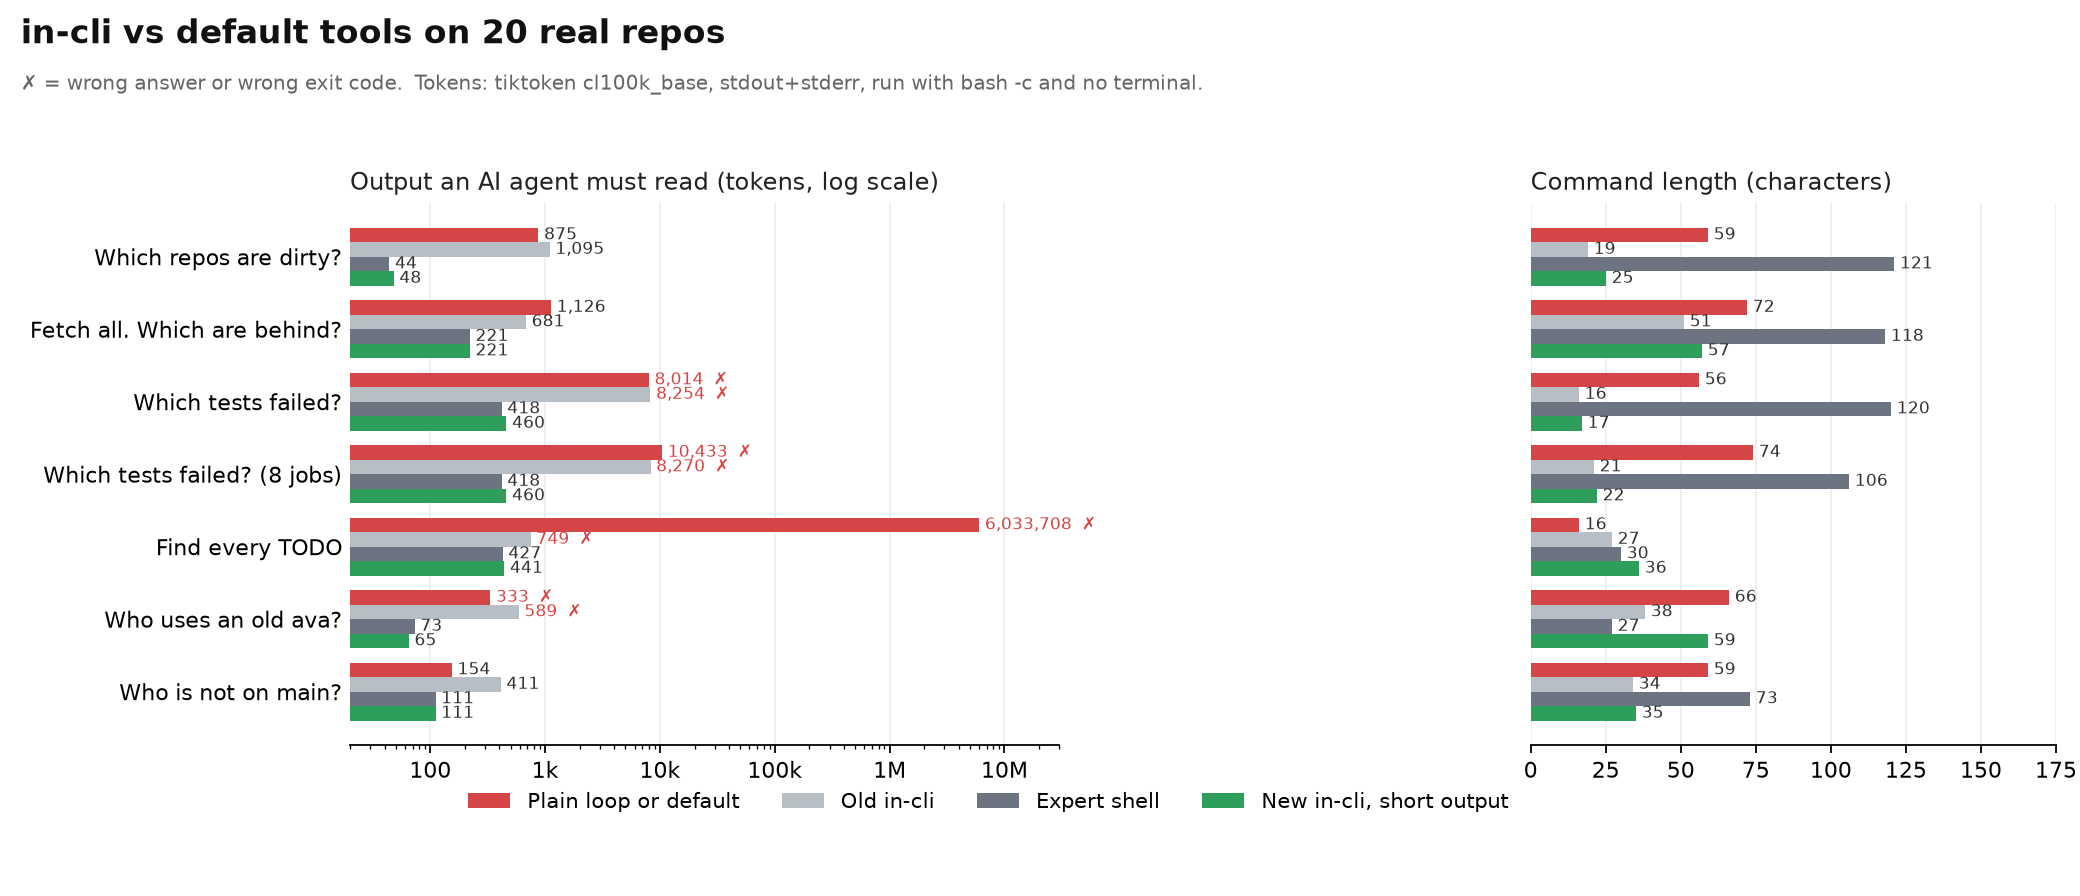
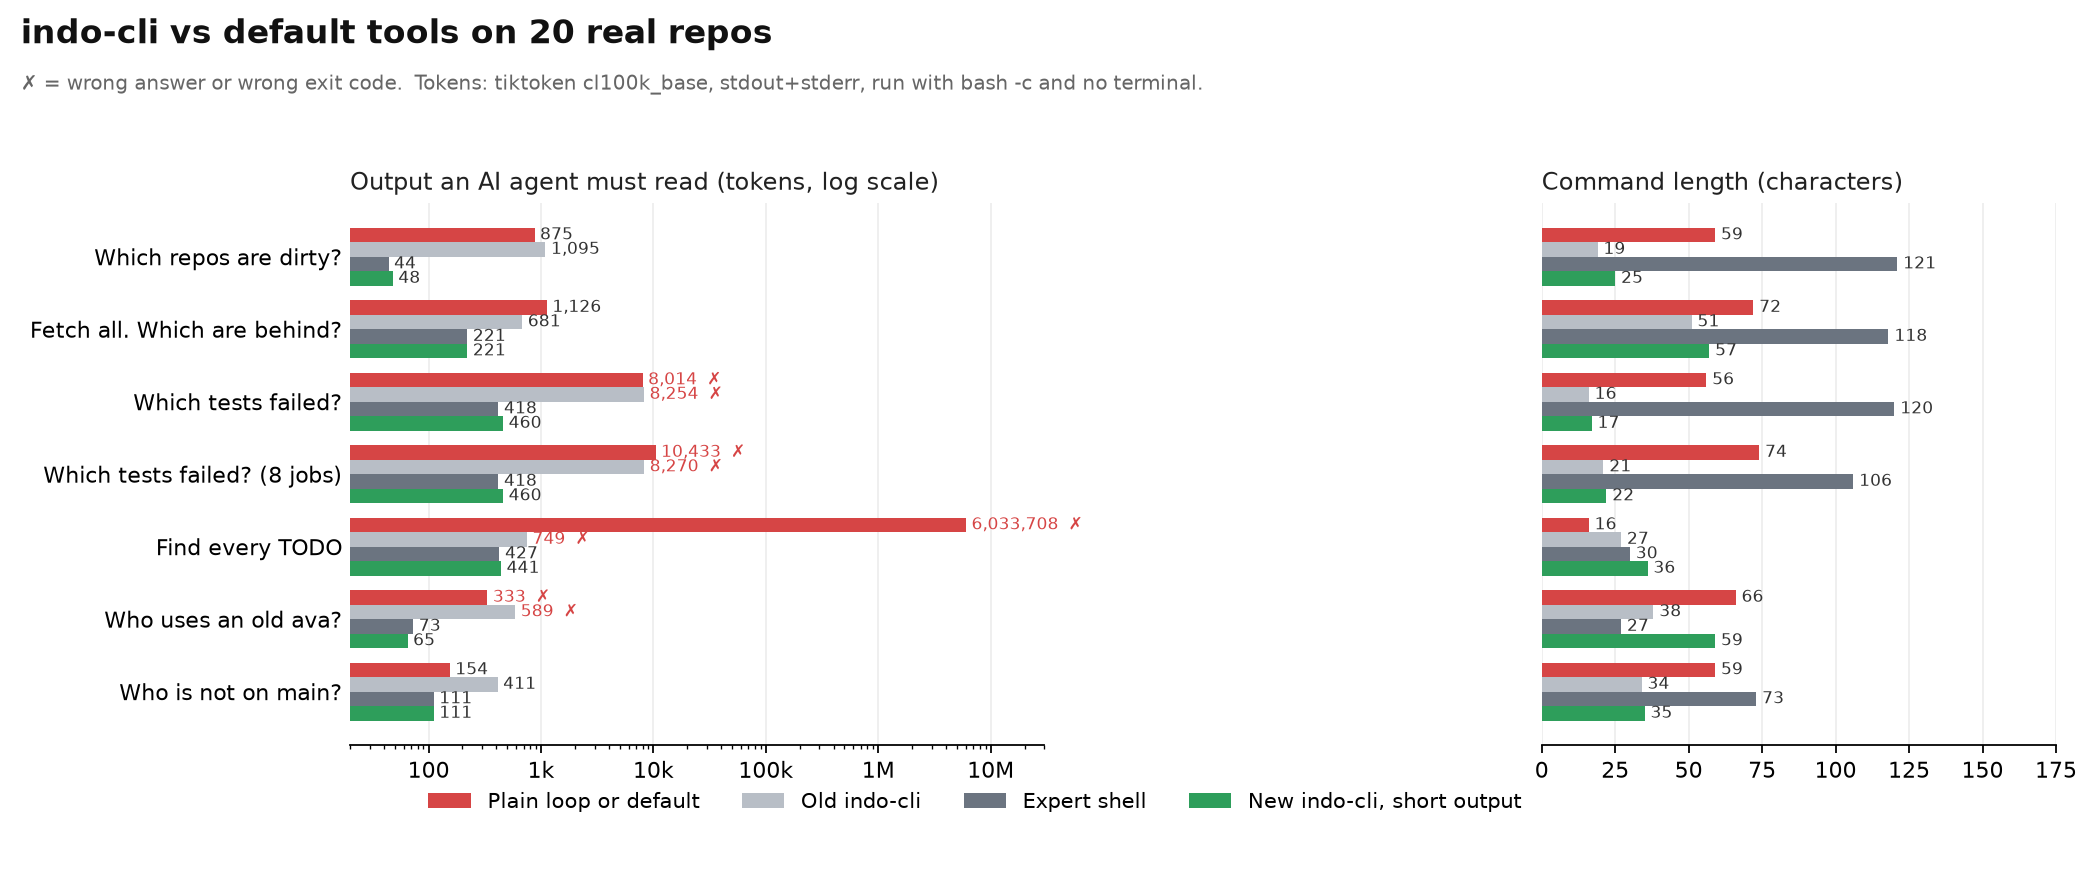
Rename project to indo-cli, version 1.2.0
- New repo URLs (github.com/inevolin/indo-cli) in README, install.sh and in.sh
- indo is the main name in help, version and verbose output; the in link still works
- Installer also replaces an old in-cli 'in' install with the link
- Re-recorded demo GIF with indo, rebuilt benchmark chart with the new name
- Changelog and rename note in README

diff --git a/bench/bench.py b/bench/bench.py
@@ -1,5 +1,5 @@
 #!/usr/bin/env python3
-"""Benchmark in-cli against default tools on a 20-repo workspace.
+"""Benchmark indo-cli against default tools on a 20-repo workspace.
 
 Every command runs through `bash -c` with no terminal, the way AI agents run
 commands. Tokens are counted with tiktoken cl100k_base on stdout+stderr.
@@ -100,9 +100,9 @@ def reset_fetch():
 GREP_AVA = r'''grep "\"ava\"" package.json'''
 TASKS = [
  ("T1", "Which repos have uncommitted changes?", None, [
-  ("old in-cli", "human", "in-old * git status"),
-  ("new in-cli", "human", "indo * git status"),
-  ("new in-cli", "agent", "indo -c * 'git status -s'"),
+  ("old indo-cli", "human", "in-old * git status"),
+  ("new indo-cli", "human", "indo * git status"),
+  ("new indo-cli", "agent", "indo -c * 'git status -s'"),
   ("naive loop", "default", 'for d in */; do echo "== $d"; (cd "$d" && git status); done'),
   ("expert loop", "default", 'rc=0; for d in */; do s=$(git -C "$d" status -s) || rc=1; [ -n "$s" ] && printf \'%s:\\n%s\\n\' "${d%/}" "$s"; done; exit $rc'),
   ("find -execdir (README)", "default", "find . -maxdepth 1 -type d -not -name '.' -execdir git status \\;"),
@@ -110,52 +110,52 @@ TASKS = [
   ("GNU parallel", "default", "parallel -k --tag 'git -C {} status -s' ::: */"),
  ]),
  ("T2", "Fetch every repo. Which are behind?", reset_fetch, [
-  ("old in-cli", "human", "in-old * 'git fetch -q && git status -sb | head -1'"),
-  ("new in-cli", "human", "indo * 'git fetch -q && git status -sb | head -1'"),
-  ("new in-cli", "agent", "indo -c -P 8 * 'git fetch -q && git status -sb | head -1'"),
+  ("old indo-cli", "human", "in-old * 'git fetch -q && git status -sb | head -1'"),
+  ("new indo-cli", "human", "indo * 'git fetch -q && git status -sb | head -1'"),
+  ("new indo-cli", "agent", "indo -c -P 8 * 'git fetch -q && git status -sb | head -1'"),
   ("naive loop", "default", 'for d in */; do echo "== $d"; (cd "$d" && git fetch && git status); done'),
   ("expert loop", "default", 'rc=0; for d in */; do git -C "$d" fetch -q || rc=1; echo "${d%/}: $(git -C "$d" status -sb | head -1)"; done; exit $rc'),
   ("xargs -P", "default", "ls -d */ | xargs -P 8 -I{} sh -c 'git -C {} fetch -q && echo \"{}: $(git -C {} status -sb | head -1)\"'"),
   ("GNU parallel", "default", "parallel -j8 -k --tag 'git -C {} fetch -q && git -C {} status -sb | head -1' ::: */"),
  ]),
  ("T3", "Run tests everywhere. Which failed?", None, [
-  ("old in-cli", "human", "in-old * ./ci.sh"),
-  ("new in-cli", "human", "indo * ./ci.sh"),
-  ("new in-cli", "agent", "indo -f * ./ci.sh"),
+  ("old indo-cli", "human", "in-old * ./ci.sh"),
+  ("new indo-cli", "human", "indo * ./ci.sh"),
+  ("new indo-cli", "agent", "indo -f * ./ci.sh"),
   ("naive loop", "default", 'for d in */; do echo "== $d"; (cd "$d" && ./ci.sh); done'),
   ("expert loop", "default", 'f=0; for d in */; do o=$(cd "$d" && ./ci.sh 2>&1) || { f=1; echo "FAIL ${d%/}"; echo "$o" | tail -n 10; }; done; exit $f'),
   ("find -exec", "default", "find . -mindepth 1 -maxdepth 1 -type d -exec sh -c 'cd \"$1\" && ./ci.sh' _ {} \\;"),
  ]),
  ("T4", "Run tests in parallel (8 jobs). Which failed?", None, [
-  ("old in-cli", "human", "in-old -P 8 * ./ci.sh"),
-  ("new in-cli", "human", "indo -P 8 * ./ci.sh"),
-  ("new in-cli", "agent", "indo -f -P 8 * ./ci.sh"),
+  ("old indo-cli", "human", "in-old -P 8 * ./ci.sh"),
+  ("new indo-cli", "human", "indo -P 8 * ./ci.sh"),
+  ("new indo-cli", "agent", "indo -f -P 8 * ./ci.sh"),
   ("xargs -P", "default", "ls -d */ | xargs -P 8 -I{} sh -c 'cd {} && ./ci.sh 2>&1 | sed \"s|^|{}: |\"'"),
   ("expert xargs -P", "default", "printf '%s\\n' */ | xargs -P 8 -I{} sh -c 'o=$(cd {} && ./ci.sh 2>&1) || { printf \"FAIL %s\\n%s\\n\" {} \"$(echo \"$o\" | tail -n 10)\"; exit 1; }'"),
   ("GNU parallel", "default", "parallel -j8 -k --tag 'cd {} && ./ci.sh' ::: */"),
   ("expert GNU parallel", "default", "parallel -j8 -k 'o=$(cd {} && ./ci.sh 2>&1) || { echo \"FAIL {}\"; echo \"$o\" | tail -n 10; exit 1; }' ::: */"),
  ]),
  ("T5", "Find every TODO in the code", None, [
-  ("old in-cli", "human", "in-old * 'git grep -n TODO'"),
-  ("new in-cli", "human", "indo * 'git grep -n TODO'"),
-  ("new in-cli", "agent", "indo -c * 'git grep -n TODO || true'"),
+  ("old indo-cli", "human", "in-old * 'git grep -n TODO'"),
+  ("new indo-cli", "human", "indo * 'git grep -n TODO'"),
+  ("new indo-cli", "agent", "indo -c * 'git grep -n TODO || true'"),
   ("naive grep -r", "default", "grep -rn TODO */"),
   ("expert grep -r", "default", "grep -rn --exclude-dir={node_modules,.git} TODO */"),
   ("ripgrep", "specialised", "rg -n TODO"),
   ("ripgrep --hidden", "specialised", "rg -n --hidden -g '!.git' TODO"),
  ]),
  ("T6", "Which JS repos still use ava older than v6?", None, [
-  ("old in-cli", "human", f"in-old * '{GREP_AVA}'"),
-  ("new in-cli", "human", f"indo * '{GREP_AVA}'"),
-  ("new in-cli", "agent (no || true)", f"indo -c * '{GREP_AVA}'"),
-  ("new in-cli", "agent", f"indo -c * '{GREP_AVA} 2>/dev/null || true'"),
+  ("old indo-cli", "human", f"in-old * '{GREP_AVA}'"),
+  ("new indo-cli", "human", f"indo * '{GREP_AVA}'"),
+  ("new indo-cli", "agent (no || true)", f"indo -c * '{GREP_AVA}'"),
+  ("new indo-cli", "agent", f"indo -c * '{GREP_AVA} 2>/dev/null || true'"),
   ("naive loop", "default", 'for d in */; do echo "== $d"; grep \'"ava"\' "$d/package.json"; done'),
   ("grep with glob", "specialised", "grep '\"ava\"' */package.json"),
  ]),
  ("T7", "Which repos are not on main or master?", None, [
-  ("old in-cli", "human", "in-old * git branch --show-current"),
-  ("new in-cli", "human", "indo * git branch --show-current"),
-  ("new in-cli", "agent", "indo -c * git branch --show-current"),
+  ("old indo-cli", "human", "in-old * git branch --show-current"),
+  ("new indo-cli", "human", "indo * git branch --show-current"),
+  ("new indo-cli", "agent", "indo -c * git branch --show-current"),
   ("naive loop", "default", 'for d in */; do echo "== $d"; (cd "$d" && git branch); done'),
   ("expert loop", "default", 'for d in */; do echo "${d%/}: $(git -C "$d" branch --show-current)"; done'),
   ("find -exec", "default", "find . -mindepth 1 -maxdepth 1 -type d -exec git -C {} branch --show-current \\;"),

diff --git a/bench/chart.py b/bench/chart.py
@@ -15,9 +15,9 @@ tasks=[("T1","Which repos are dirty?","naive loop","expert loop"),
        ("T7","Who is not on main?","naive loop","expert loop")]
 rows=[]
 for t,label,naive,expert in tasks:
-    rows.append((label, get(t,naive), get(t,"old in-cli"), get(t,expert), get(t,"new in-cli","agent")))
+    rows.append((label, get(t,naive), get(t,"old indo-cli"), get(t,expert), get(t,"new indo-cli","agent")))
 RED="#d64545"; GREEN="#2e9e5b"; GRAY="#b8bec6"; DARK="#6b7480"
-series=[("Plain loop or default", 1, RED),("Old in-cli",2,GRAY),("Expert shell",3,DARK),("New in-cli, short output",4,GREEN)]
+series=[("Plain loop or default", 1, RED),("Old indo-cli",2,GRAY),("Expert shell",3,DARK),("New indo-cli, short output",4,GREEN)]
 fig,(a1,a2)=plt.subplots(1,2,figsize=(13,5.6),gridspec_kw={"width_ratios":[1.35,1]})
 fig.patch.set_facecolor("white")
 n=len(rows); h=0.2
@@ -46,7 +46,7 @@ a1.set_title("Output an AI agent must read (tokens, log scale)",fontsize=11,loc=
 a2.set_title("Command length (characters)",fontsize=11,loc="left",color="#222")
 a2.set_xlim(0,175)
 a1.legend(loc="lower center",bbox_to_anchor=(0.9,-0.16),ncol=4,frameon=False,fontsize=9.5)
-fig.suptitle("in-cli vs default tools on 20 real repos",x=0.01,ha="left",fontsize=15,fontweight="bold",color="#111")
+fig.suptitle("indo-cli vs default tools on 20 real repos",x=0.01,ha="left",fontsize=15,fontweight="bold",color="#111")
 fig.text(0.01,0.9,"✗ = wrong answer or wrong exit code.  Tokens: tiktoken cl100k_base, stdout+stderr, run with bash -c and no terminal.",fontsize=9,color="#666")
 plt.tight_layout(rect=(0,0.03,1,0.9))
 plt.savefig("../bench/chart.png",dpi=160)

diff --git a/ANALYSIS.md b/ANALYSIS.md
@@ -1,10 +1,10 @@
-# in-cli vs default tools: a benchmark on 20 real repos
+# indo-cli vs default tools: a benchmark on 20 real repos
 
-**Headline.** With the new short output (`-c`, `-f`), in-cli gave the right answer *and* the right exit code in 7 of 7 tasks. The output was 93% smaller than plain shell loops and 93% smaller than the old in-cli. Expert shell one-liners are about as small (6% fewer tokens), but their commands are 2.6 times longer and easy to get wrong.
+**Headline.** With the new short output (`-c`, `-f`), indo-cli gave the right answer *and* the right exit code in 7 of 7 tasks. The output was 93% smaller than plain shell loops and 93% smaller than the old indo-cli. Expert shell one-liners are about as small (6% fewer tokens), but their commands are 2.6 times longer and easy to get wrong.
 
-![in-cli vs default tools](bench/chart.png)
+![indo-cli vs default tools](bench/chart.png)
 
-| Task (20 repos) | Plain loop | Old in-cli | Expert shell | **New in-cli** | New in-cli command |
+| Task (20 repos) | Plain loop | Old indo-cli | Expert shell | **New indo-cli** | New indo-cli command |
 |---|---|---|---|---|---|
 | Which repos are dirty? | 875 tok | 1,095 tok | 44 tok, 121 chars | **48 tok, 25 chars** | `indo -c * 'git status -s'` |
 | Fetch all. Which are behind? | 1,126 tok | 681 tok | 221 tok, 118 chars | **221 tok, 57 chars** | `indo -c -P 8 * 'git fetch -q && git status -sb \| head -1'` |
@@ -18,7 +18,7 @@
 
 ## What the numbers say
 
-**1. The old in-cli could not tell you that something failed.** It always ended with the exit code of the *last* folder. In the test task, 4 of 20 repos failed and it still returned 0. In parallel mode the output of different folders was mixed together, so even a careful reader blamed the wrong repo (`pretty-bytes` instead of `errors`).
+**1. The old indo-cli could not tell you that something failed.** It always ended with the exit code of the *last* folder. In the test task, 4 of 20 repos failed and it still returned 0. In parallel mode the output of different folders was mixed together, so even a careful reader blamed the wrong repo (`pretty-bytes` instead of `errors`).
 
 **2. `in` does not run in Bash at all.** `in` is a reserved word in Bash and sh. `bash -c 'in * pwd'` stops with `syntax error near unexpected token 'in'`. AI agents run every command through `bash -c`, so for agents the old tool did not exist. The installer now uses `indo` by default.
 
@@ -31,7 +31,7 @@
 - `grep -rn TODO */` read `node_modules` and printed 6 million tokens.
 - `rg TODO` skips hidden files by default, so it missed 5 of 17 TODOs (in `.macos`, `.vim/` and `.github/`). `rg --hidden -g '!.git'` finds all 17.
 
-## Where in-cli wins
+## Where indo-cli wins
 
 - **Short commands that are also correct.** 17 to 59 characters, against 73 to 121 for the expert loops. Less to type, less to get wrong, and fewer tokens in the agent's own command.
 - **Exit codes you can trust.** 0 only when every folder worked. Otherwise 1, plus `N of M folders failed: a b c`.
@@ -43,11 +43,11 @@
 
 Be honest about these:
 
-- **A single search.** `grep '"ava"' */package.json` is shorter (27 characters) than any in-cli command. `rg` is the right tool for "search all the code". in-cli does not try to replace them.
-- **Expert loops use about 6% fewer tokens.** in-cli adds a count line and the folder name on each line. If you are an expert and you write the loop every time, you get the same result.
+- **A single search.** `grep '"ava"' */package.json` is shorter (27 characters) than any indo-cli command. `rg` is the right tool for "search all the code". indo-cli does not try to replace them.
+- **Expert loops use about 6% fewer tokens.** indo-cli adds a count line and the folder name on each line. If you are an expert and you write the loop every time, you get the same result.
 - **GNU parallel is the strongest rival.** `parallel -k --tag` keeps order, tags lines and returns the number of failures. It is just harder to remember, and its plain output was 10,699 tokens on the test task.
-- **Raw speed.** in-cli's short output modes write each folder's output to a temp file first. On 20 folders that costs about 0.1 seconds (0.15 s instead of 0.04 s for a plain loop). For anything real (tests, fetch, builds) this does not matter. `-P 8` ran the tests in 9.5 s instead of 22 s.
-- **Commands whose "failure" is not a failure.** `grep` exits 1 when it finds nothing. in-cli reports this as a failed folder. You need `|| true` for search commands. Without it, the `ava` task printed 451 tokens of `FAIL` lines instead of 65.
+- **Raw speed.** indo-cli's short output modes write each folder's output to a temp file first. On 20 folders that costs about 0.1 seconds (0.15 s instead of 0.04 s for a plain loop). For anything real (tests, fetch, builds) this does not matter. `-P 8` ran the tests in 9.5 s instead of 22 s.
+- **Commands whose "failure" is not a failure.** `grep` exits 1 when it finds nothing. indo-cli reports this as a failed folder. You need `|| true` for search commands. Without it, the `ava` task printed 451 tokens of `FAIL` lines instead of 65.
 
 ## For humans
 

diff --git a/README.md b/README.md
@@ -1,4 +1,4 @@
-# indo: run one command in many folders
+# indo-cli: run one command in many folders
 
 ![Demo](.github/assets/demo.gif)
 
@@ -18,16 +18,18 @@ indo -f * 'npm test'         # show only what failed
 ## Install
 
 ```bash
-curl -sL https://raw.githubusercontent.com/inevolin/in-cli/main/install.sh | bash
+curl -sL https://raw.githubusercontent.com/inevolin/indo-cli/main/install.sh | bash
 ```
 
 No sudo? Install to your home folder:
 
 ```bash
-curl -sL https://raw.githubusercontent.com/inevolin/in-cli/main/install.sh | DEST_DIR=~/.local/bin bash
+curl -sL https://raw.githubusercontent.com/inevolin/indo-cli/main/install.sh | DEST_DIR=~/.local/bin bash
 ```
 
-Want another name? Pass it: `... | bash -s -- in-cli`. Then only that name is installed.
+Want another name? Pass it: `... | bash -s -- mycmd`. Then only that name is installed.
+
+> **Renamed from in-cli.** This project used to be called in-cli (github.com/inevolin/in-cli). Old links redirect here. Old installs keep working, and running the installer again updates them and keeps the `in` link. Version 1.2.0 is the first release under the new name.
 
 ## Rules of thumb
 
@@ -134,6 +136,11 @@ find . -mindepth 1 -maxdepth 1 -type d -exec git -C {} status \;   # no folder n
 ls -d */ | xargs -I {} sh -c 'cd {} && git status'                 # no folder names
 indo * git status                                                   # names, grouped, honest exit code
 ```
+
+## Changelog
+
+- **1.2.0** Renamed the project from in-cli to indo-cli. `indo` is the main command. The `in` link still works.
+- **1.1.0** Short output modes (`-c`, `-s`, `-f`), honest exit codes, `--version`, and `indo` as the default install name.
 
 ## Uninstall
 
